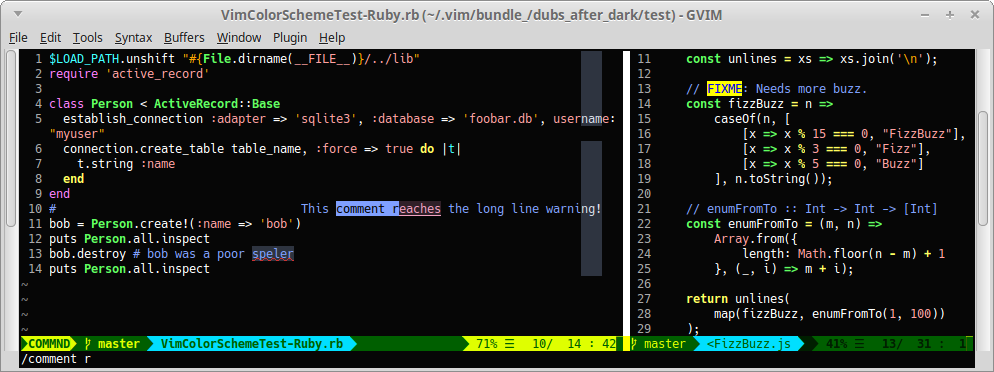
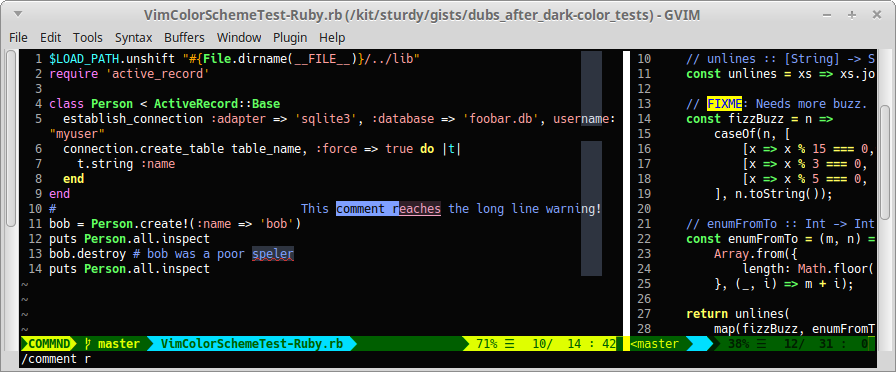
Make README and screenshot look better on GitHub.
- Remove styling from reST file, and use narrower screengrab.

diff --git a/README.rst b/README.rst
@@ -3,23 +3,6 @@ Dubsacks Vim — Dubs After Dark
 
 Vibrant white and light text on a black background.
 
-.. raw:: html
-
-   <style>
-    .red { color: red }
-    .wavy {
-      background-color: #2E3440;
-      color: #FFFFFF;
-      text-decoration-line: underline;
-      text-decoration-style: wavy;
-      text-decoration-color: red;
-    }
-   </style>
-
-.. role:: red
-
-.. role:: wavy
-
 .. image:: doc/color-scheme-test-ruby-and-javascript.png
 
 About This Plugin
@@ -45,7 +28,7 @@ This plugin makes the following tweaks:
   are highlighted with a light pink background and underline.
 
 - Spelling mistakes are highlighted with a light grey background
-  and a :wavy:`red undercurl`.
+  and a red undercurl.
 
 - The ``ColorColumn`` is set to light grey.
 
